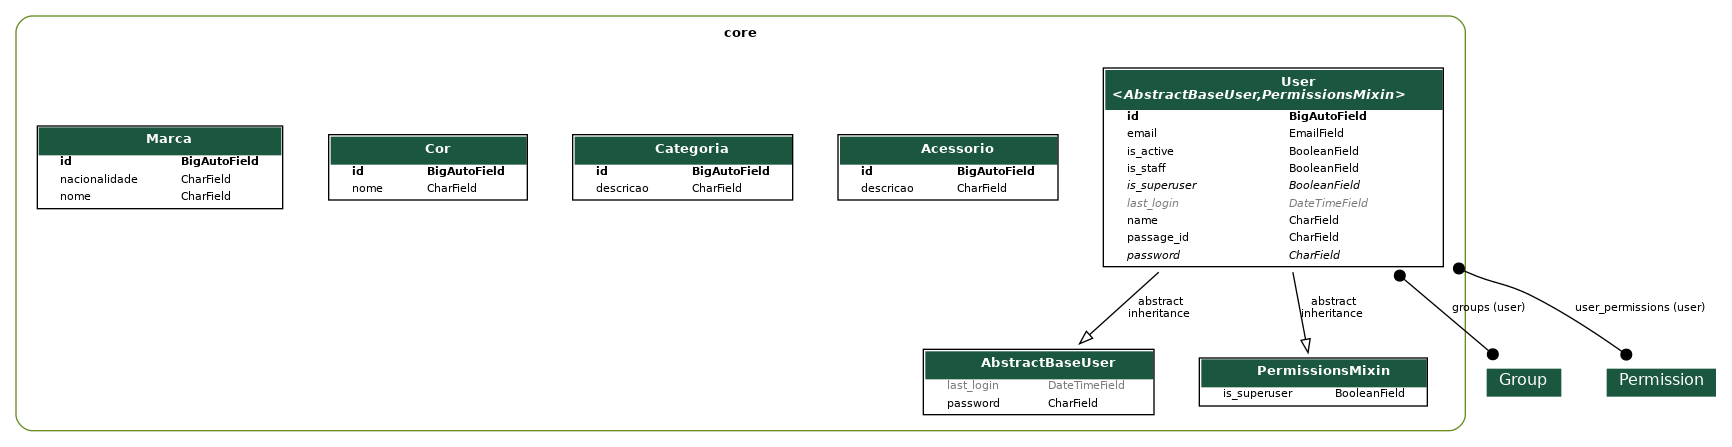
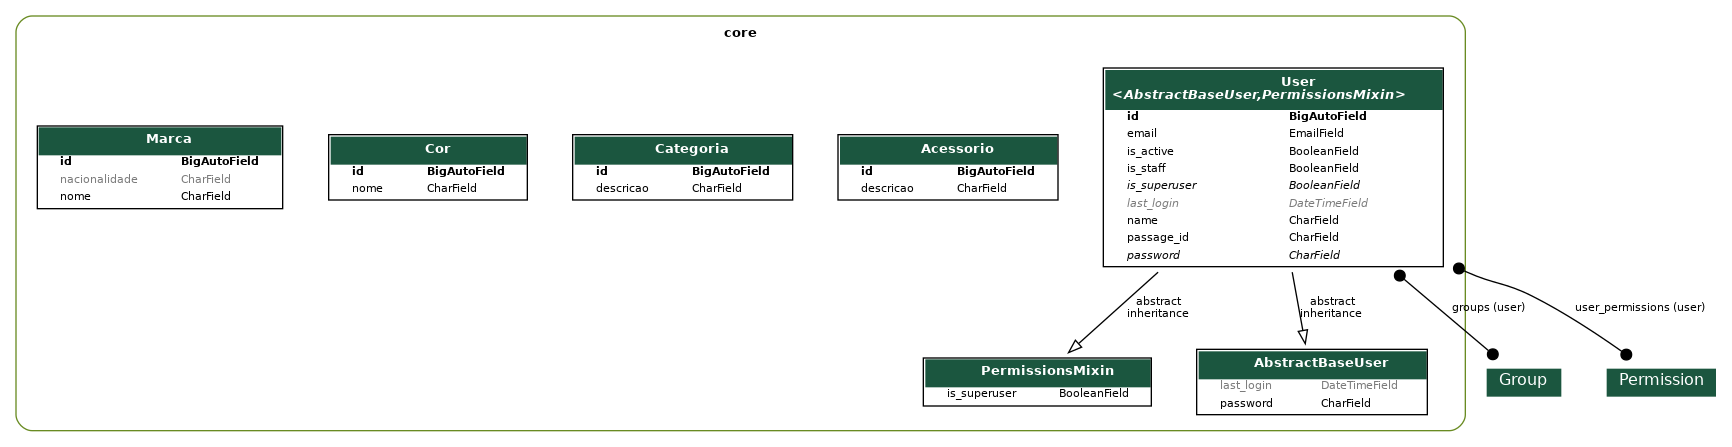
adição do blank no arquivo categoria.py da models

Changed region(s): [[0.53, 0.6689, 0.8418, 0.9306], [0.0312, 0.3781, 0.1247, 0.4072]]

diff --git a/core/migrations/0009_alter_marca_nacionalidade.py b/core/migrations/0009_alter_marca_nacionalidade.py
@@ -1,0 +1,18 @@
+# Generated by Django 5.0.6 on 2024-07-12 17:43
+
+from django.db import migrations, models
+
+
+class Migration(migrations.Migration):
+
+    dependencies = [
+        ("core", "0008_alter_acessorio_options_alter_cor_options"),
+    ]
+
+    operations = [
+        migrations.AlterField(
+            model_name="marca",
+            name="nacionalidade",
+            field=models.CharField(blank=True, max_length=50, null=True),
+        ),
+    ]

diff --git a/core/models/marca.py b/core/models/marca.py
@@ -2,7 +2,7 @@ from django.db import models
 
 class Marca(models.Model):
     nome = models.CharField(max_length=50)
-    nacionalidade = models.CharField(max_length=50, null=True)
+    nacionalidade = models.CharField(max_length=50, null=True, blank=True)
 
     def __str__(self):
         return f"{self.nome.upper()} - ({self.id})" 
